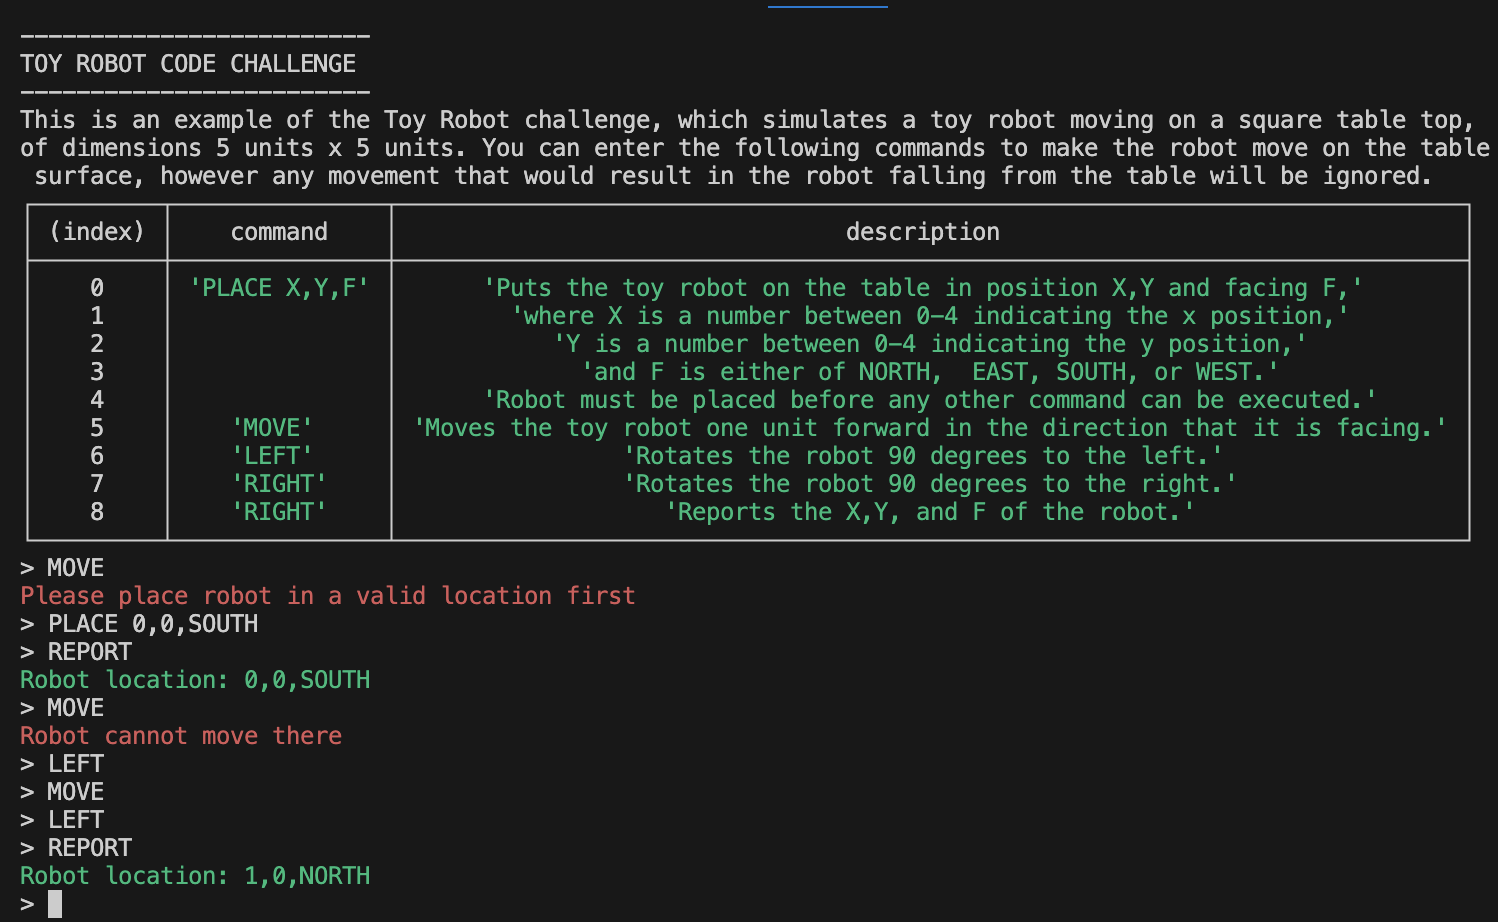
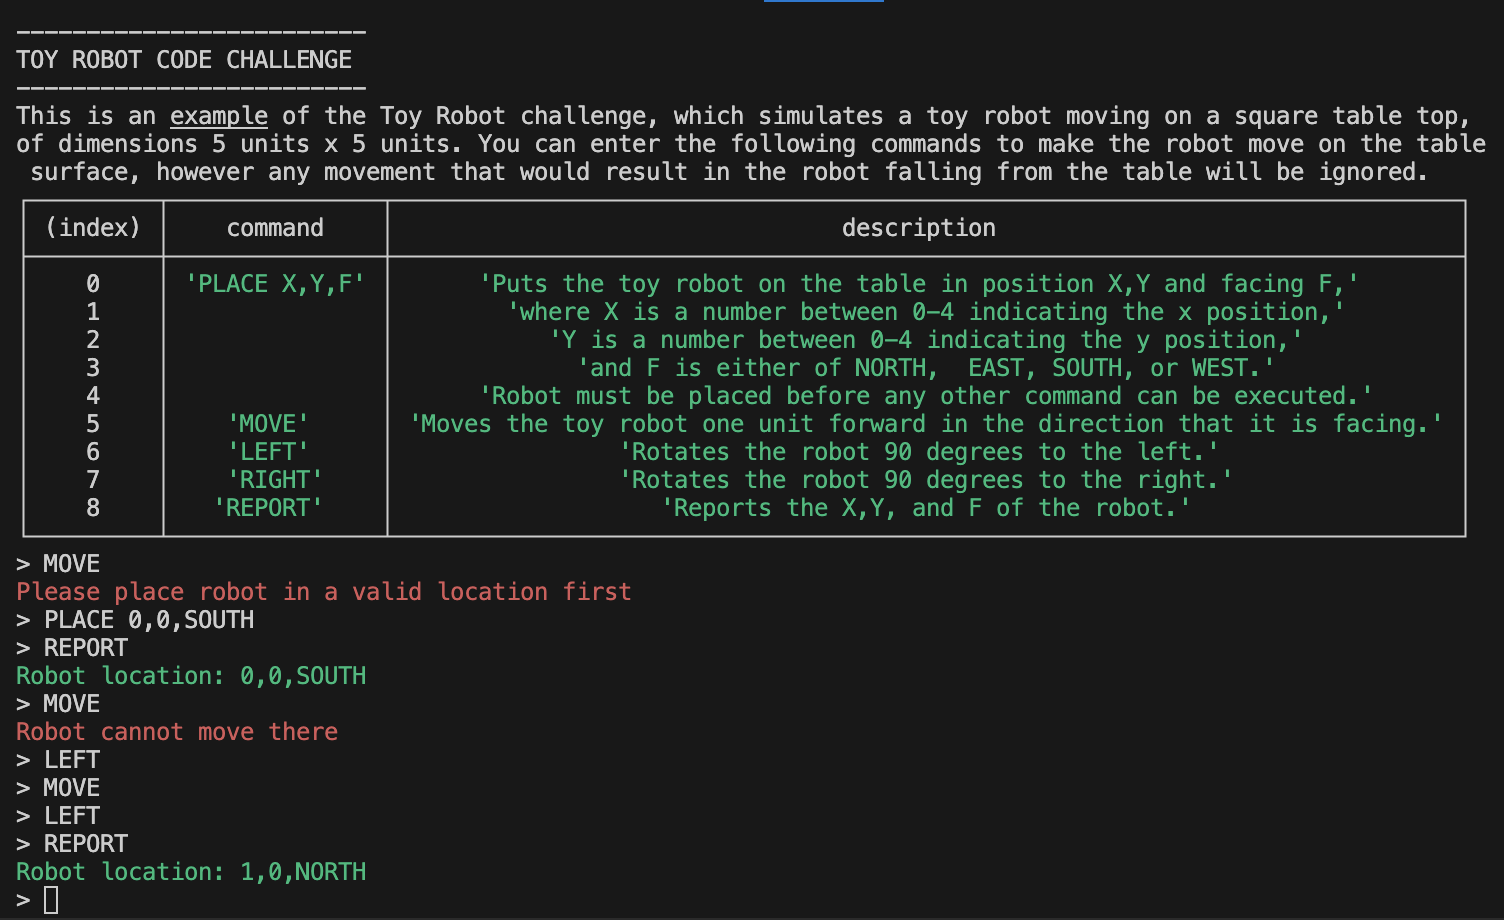
fix typo

Changed region(s): [[0.0, 0.0304, 1.0, 1.0], [0.522, 0.0, 0.5834, 0.0304]]

diff --git a/src/constant.ts b/src/constant.ts
@@ -43,7 +43,7 @@ export const COMMANDS = [
     description: "Rotates the robot 90 degrees to the right.",
   },
   {
-    command: CommandOptions.RIGHT,
+    command: CommandOptions.REPORT,
     description: "Reports the X,Y, and F of the robot.",
   },
 ];
